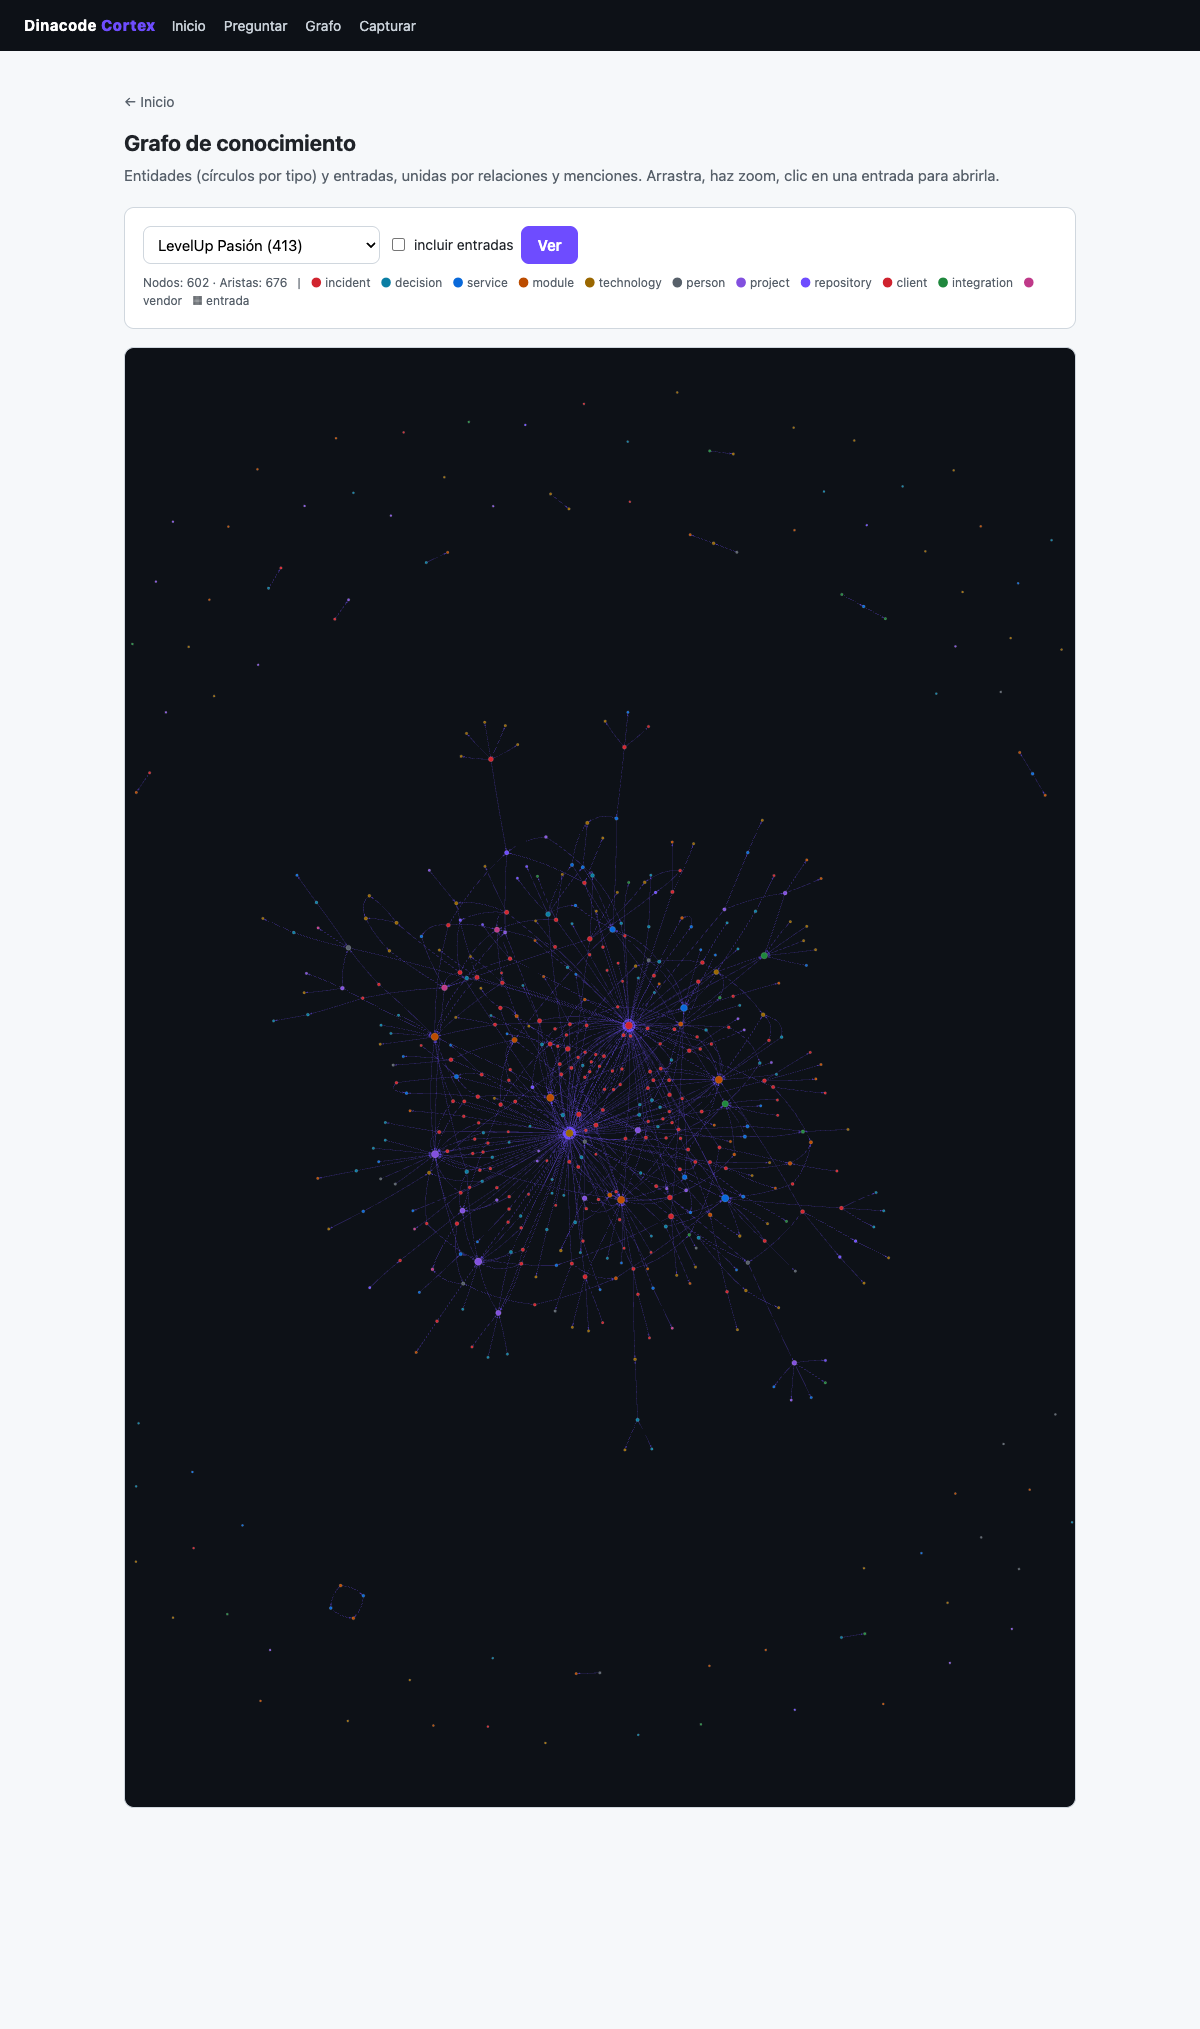
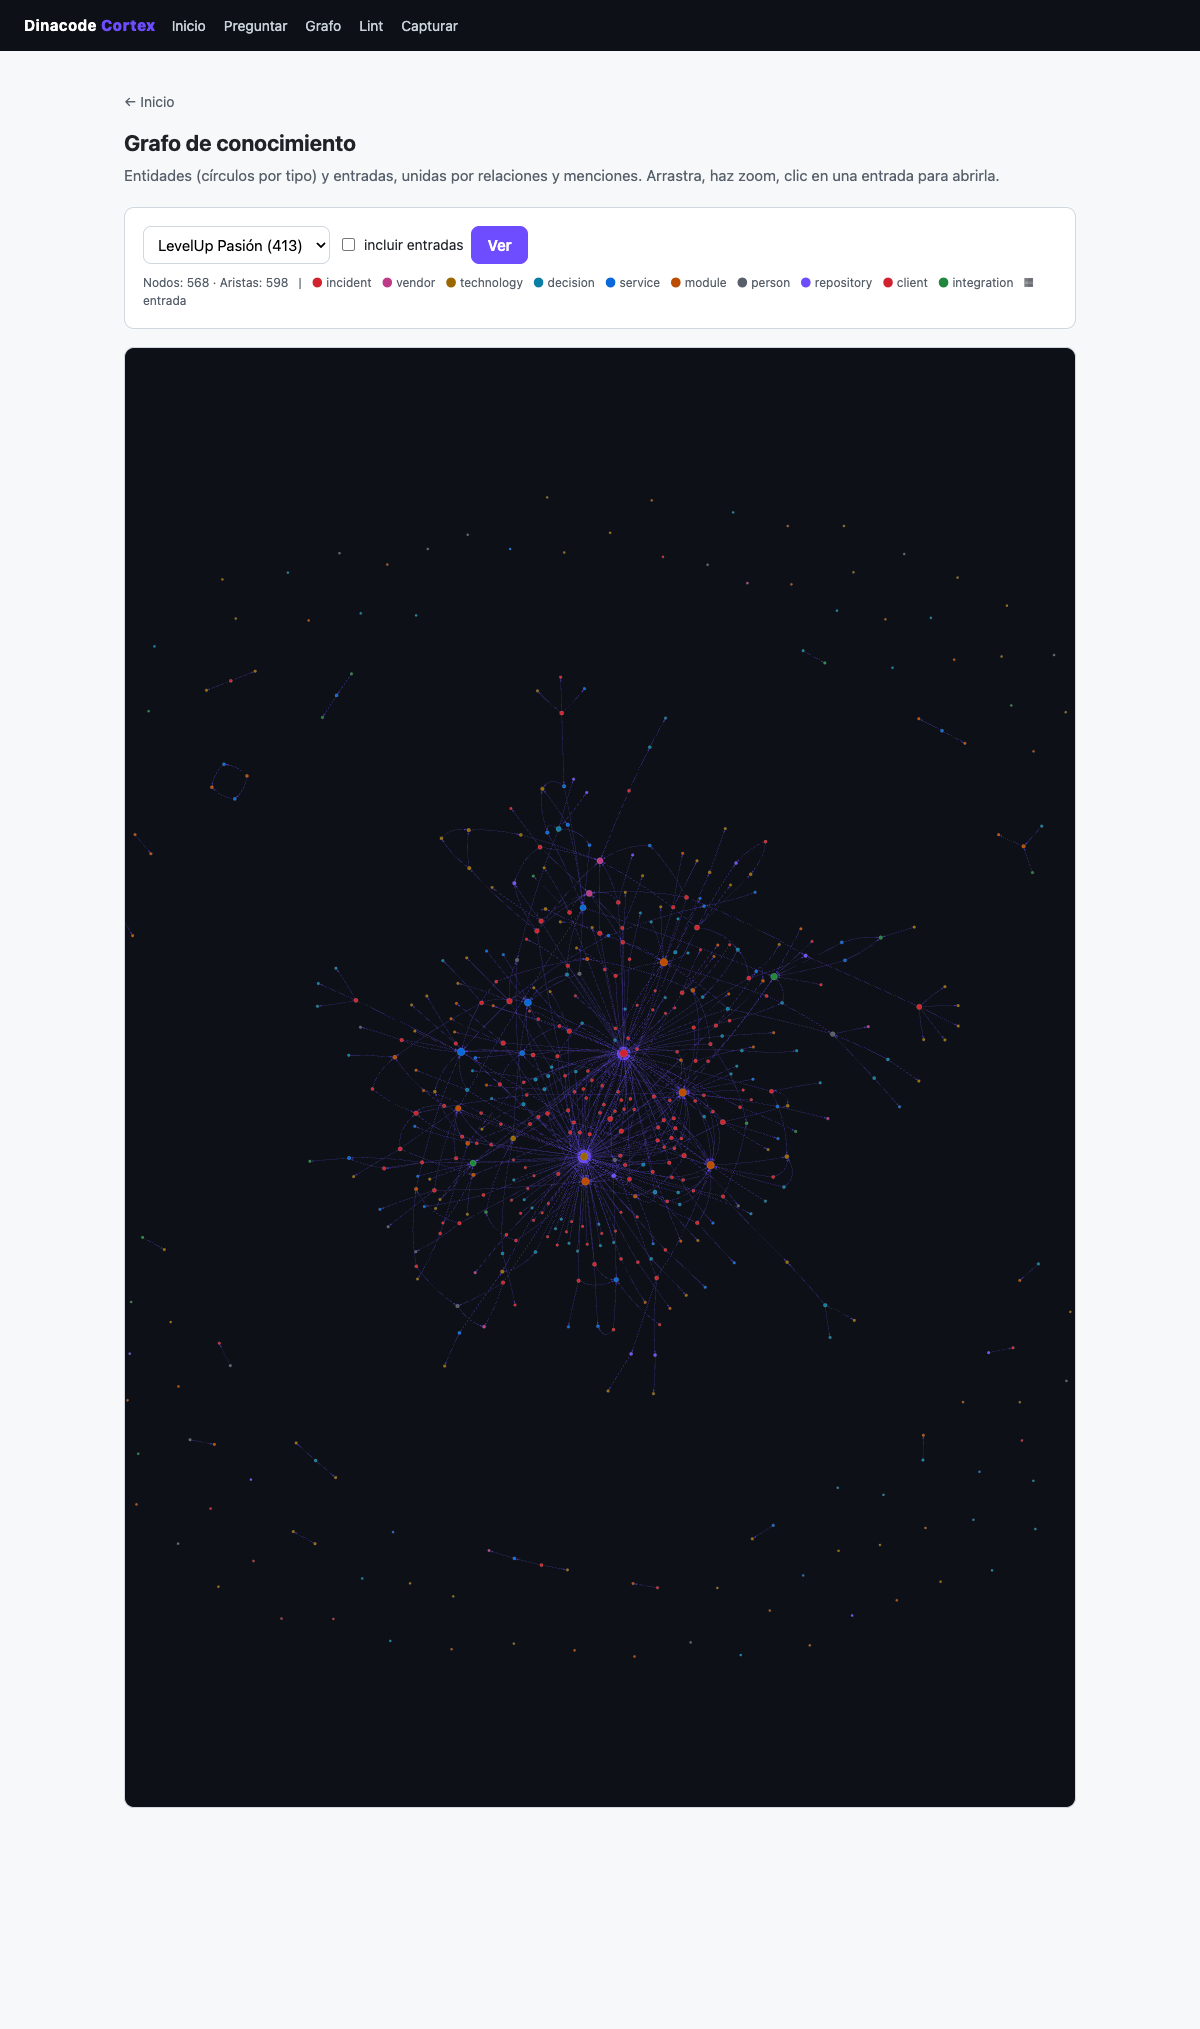
fix: extractor no crea proyectos espurios + salvaguarda en seed
- @cortex/agents: extractGraph excluye el tipo 'project' (el proyecto es el
  contenedor; antes el LLM creaba "proyectos" de las cabeceras [Plane PUBLI-xx]).
- @cortex/core: db:seed exige CORTEX_SEED_CONFIRM=1 (vacía todo y recarga Acme;
  evita destruir datos reales por accidente).
- Captura del grafo actualizada al estado limpio (1 proyecto, sin datos de prueba).

Mantenimiento de datos (no en git): reprocesadas las 19 entradas pendientes
(grafo LevelUp 413/413), fusión de variantes, y eliminados Acme + 53 proyectos
espurios + huérfanos/relaciones colgadas/sources huérfanas.

diff --git a/packages/agents/src/enrich.ts b/packages/agents/src/enrich.ts
@@ -23,7 +23,9 @@ export interface GraphExtraction {
   relations: ExtractedRelation[];
 }
 
-const ETYPES = entityType.options;
+// Excluimos 'project' de la extracción: el proyecto es el contenedor, no una
+// entidad a extraer (si no, el LLM crea "proyectos" espurios de las cabeceras).
+const ETYPES = entityType.options.filter((t) => t !== "project");
 const RTYPES = relationType.options;
 
 const SYSTEM =
@@ -35,7 +37,9 @@ function prompt(content: string): string {
   return `De la siguiente pieza de conocimiento, extrae:
 1) "entities": entidades de dominio CONCRETAS y reutilizables. Cada una { "name": string, "type": uno de [${ETYPES.join(", ")}] }.
    Incluye clientes, servicios, integraciones, proveedores externos, módulos/áreas, tecnologías, repositorios, decisiones o incidencias nombradas, y personas SOLO si son relevantes (responsables, dueños de decisión). Usa el nombre canónico natural; NO dupliques variantes (p.ej. "Pasión"/"Pasion"/"pasion.net" → "Pasion").
-   NO extraigas saludos, confirmaciones, ni menciones triviales.
+   NO extraigas saludos, confirmaciones, ni menciones triviales. NO extraigas el
+   proyecto/producto como entidad de tipo proyecto (los productos como Pasion o
+   Sitiocasa son "client"); ignora las cabeceras tipo "[Plane PUBLI-xx ...]".
 2) "relations": relaciones SIGNIFICATIVAS entre entidades, o entre la ENTRADA y una entidad. Cada una { "source": string, "target": string, "type": uno de [${RTYPES.join(", ")}] }.
    PRIORIZA relaciones semánticas: affects, caused_by, depends_on, resolved_by, supersedes, contradicts, implemented_by. Usa "related_to" SOLO si ninguna otra encaja, y evita relaciones triviales o de "discussed_in" genérico.
    Usa "ENTRADA" como source cuando la relación parte de esta pieza (p.ej. una incidencia ENTRADA affects un servicio, ENTRADA caused_by un proveedor).

diff --git a/packages/core/src/seed.ts b/packages/core/src/seed.ts
@@ -115,6 +115,16 @@ const ENTRIES: SeedEntry[] = [
 async function seed(): Promise<void> {
   const sql = getSql();
 
+  // Salvaguarda: el seed BORRA todas las tablas y recarga el demo Acme. Para no
+  // destruir datos reales (p.ej. una ingesta de proyecto), exige confirmación.
+  if (process.env.CORTEX_SEED_CONFIRM !== "1") {
+    throw new Error(
+      "db:seed VACÍA todas las tablas y recarga el proyecto demo 'Acme Portal'. " +
+        "Si de verdad quieres descartar los datos actuales, ejecútalo con " +
+        "CORTEX_SEED_CONFIRM=1.",
+    );
+  }
+
   console.log("Vaciando tablas de conocimiento...");
   await sql`TRUNCATE context_entry_entities, embeddings, relations, context_entries, sources, entities RESTART IDENTITY CASCADE`;
 
